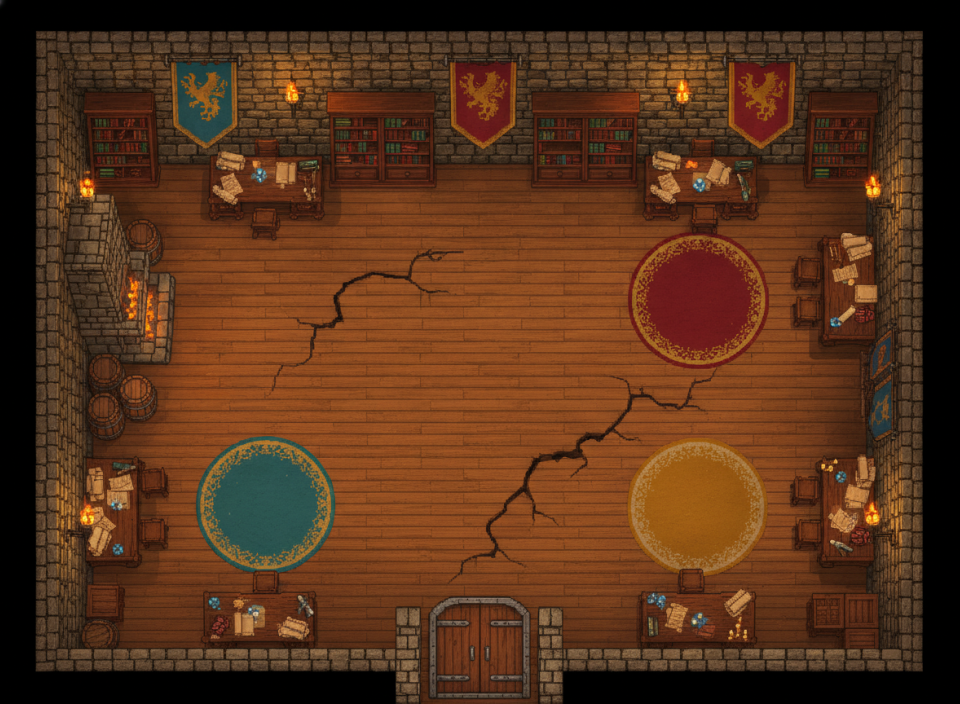
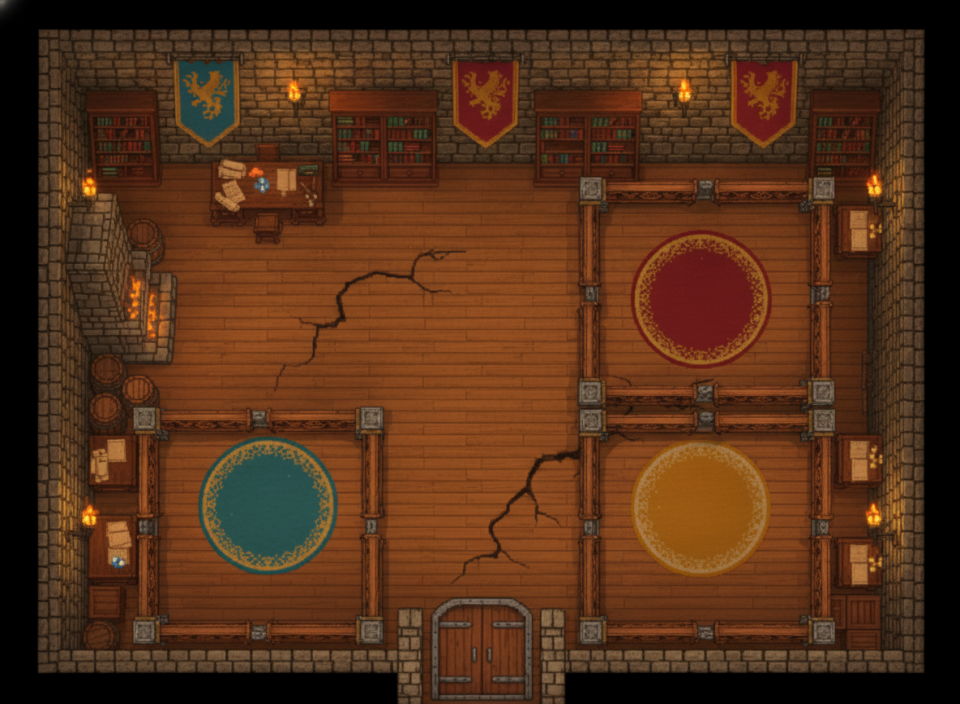
feat(visual): salas de reuniao PINTADAS (nano banana) no lugar das sebes de codigo
- Escritorio repintado (Gemini gemini-2.5-flash-image, image-to-image sobre a arte atual):
  as 3 salas de reuniao agora tem paredes de madeira entalhada com pilares de pedra,
  no mesmo estilo do resto -> sumiram as sebes feias desenhadas por codigo.
- addMeetingRoom simplificado: so colisao INVISIVEL casada com as vigas pintadas + porta
  (vao de 2 tiles) voltada pro centro. Removido o tipo MeetingSide (hedge/seal).
- Colisao e MEETING_ZONES remedidas na arte nova (crops cn_blue/red/gold) e conferidas
  por overlay (colisao em cima da viga, bolha de audio no tapete).
- Custo Gemini: +$0,12 (3 candidatas), total $0,55 de $1,80.

diff --git a/client/src/scenes/OfficeScene.ts b/client/src/scenes/OfficeScene.ts
@@ -43,15 +43,11 @@ const VOICE_STALE_MS = 1500; // sem update de posicao ha mais que isso: nao conf
 // A posicao rastreada e o CENTRO do sprite, que fica ~0.6 tile ACIMA dos pes; por
 // isso a zona sobe ate a parede de cima (OY) e encosta nas laterais — assim quem
 // fica colado em qualquer parede continua dentro da bolha, e nada vaza pro lado de fora.
-// Lado de uma sala de reunião: "hedge" = sebe visível que colide; "seal" = colisão invisível
-// (onde já há um móvel pintado que faz de parede, evitando sobrepor sebe em cima do móvel).
-type MeetingSide = "hedge" | "seal";
-
-// Zonas de reunião (bolhas de áudio isoladas) — alinhadas aos 3 TAPETES do escritório pintado.
+// Zonas de reunião (bolhas de áudio isoladas) — interior de cada sala PINTADA do escritório.
 const MEETING_ZONES = [
-  { x1: 5 * T, y1: (OY + 13) * T, x2: 12 * T, y2: (OY + 19) * T }, // sala azul (baixo-esq) — interior
-  { x1: 19 * T, y1: (OY + 7) * T, x2: 26 * T, y2: (OY + 13) * T }, // sala vermelha (cima-dir) — interior
-  { x1: 19 * T, y1: (OY + 13) * T, x2: 26 * T, y2: (OY + 19) * T }, // sala dourada (baixo-dir) — interior
+  { x1: 6 * T, y1: (OY + 14) * T, x2: 11 * T, y2: (OY + 19) * T }, // sala azul (baixo-esq) — interior
+  { x1: 19 * T, y1: (OY + 7) * T, x2: 25 * T, y2: (OY + 12) * T }, // sala vermelha (cima-dir) — interior
+  { x1: 19 * T, y1: (OY + 14) * T, x2: 25 * T, y2: (OY + 19) * T }, // sala dourada (baixo-dir) — interior
 ];
 function zoneAt(x: number, y: number): number {
   for (let i = 0; i < MEETING_ZONES.length; i++) {
@@ -374,21 +370,15 @@ export class OfficeScene extends Phaser.Scene {
         this.add.image(0, OY * T, "painted_office").setOrigin(0, 0).setDepth(0);
         this.addStaircase(16, OY + 5, true, "▲ Praia", 16, 13); // sobe pra praia (dentro da sala, longe da parede)
         this.addStaircase(16, OY + 17, false, "▼ Cripta", 16, 42); // desce pra cripta
-        // 3 salas de reunião: hedge VISÍVEL (+colisão) nos 2 lados abertos, colisão INVISÍVEL
-        // nos 2 lados com móveis (o móvel pintado faz de parede) — cerca sem sobrepor nada.
-        // Porta (vão de 2 tiles) voltada pro centro. Interior = bolha de áudio (MEETING_ZONES).
-        this.addMeetingRoom(walls, 4, OY + 12, 12, OY + 19,
-          { top: "hedge", right: "hedge", bottom: "seal", left: "seal" },
-          { side: "right", at: OY + 15 }); // azul (baixo-esq): abre pra cima+direita
-        this.addMeetingRoom(walls, 18, OY + 6, 26, OY + 13,
-          { top: "seal", right: "seal", bottom: "hedge", left: "hedge" },
-          { side: "left", at: OY + 9 }); // vermelha (cima-dir): abre pra baixo+esquerda
-        this.addMeetingRoom(walls, 18, OY + 12, 26, OY + 19,
-          { top: "hedge", right: "seal", bottom: "seal", left: "hedge" },
-          { side: "left", at: OY + 15 }); // dourada (baixo-dir): abre pra cima+esquerda
-        this.addRoomLabel("🗣 Reunião", 8 * T, (OY + 15.5) * T);
-        this.addRoomLabel("🗣 Reunião", 22 * T, (OY + 9.5) * T);
-        this.addRoomLabel("🗣 Reunião", 22 * T, (OY + 15.5) * T);
+        // 3 salas de reunião: a PAREDE é pintada no fundo (nano banana); aqui só a colisão
+        // invisível casada com as vigas + a porta (vão de 2 tiles) voltada pro centro.
+        // Coords medidas na arte nova (cn_blue/red/gold). Interior = bolha de áudio.
+        this.addMeetingRoom(walls, 5, OY + 13, 11, OY + 19, "right", OY + 15); // azul (baixo-esq)
+        this.addMeetingRoom(walls, 18, OY + 6, 25, OY + 12, "left", OY + 8); // vermelha (cima-dir)
+        this.addMeetingRoom(walls, 18, OY + 13, 25, OY + 19, "left", OY + 15); // dourada (baixo-dir)
+        this.addRoomLabel("🗣 Reunião", 8 * T, (OY + 16) * T);
+        this.addRoomLabel("🗣 Reunião", 21.5 * T, (OY + 9) * T);
+        this.addRoomLabel("🗣 Reunião", 21.5 * T, (OY + 16) * T);
       } else {
         this.add.tileSprite(0, OY * T, W, OFFICE_ROWS * T, "floor").setOrigin(0).setDepth(0);
         this.add.image(4 * T + T / 2, (OY + 7) * T + T / 2, "door_open").setDepth(1);
@@ -2882,28 +2872,28 @@ export class OfficeScene extends Phaser.Scene {
     r1: number,
     c2: number,
     r2: number,
-    sides: { top: MeetingSide; right: MeetingSide; bottom: MeetingSide; left: MeetingSide },
-    door: { side: "top" | "right" | "bottom" | "left"; at: number },
+    doorSide: "top" | "right" | "bottom" | "left",
+    doorAt: number,
   ) {
+    // A parede é PINTADA no fundo do escritório (nano banana); aqui só colocamos a colisão
+    // INVISÍVEL casada com as vigas pintadas, deixando um vão de 2 tiles pra porta.
     const gap = (s: "top" | "right" | "bottom" | "left", n: number) =>
-      door.side === s && n >= door.at && n <= door.at + 1;
-    // hedge = parede visível (colide); seal = colisão invisível (o móvel pintado faz de parede)
-    const put = (c: number, r: number, visible: boolean) => {
+      doorSide === s && n >= doorAt && n <= doorAt + 1;
+    const put = (c: number, r: number) => {
       const w = walls.create(
         c * T + T / 2,
         r * T + T / 2,
-        (c + r) % 4 === 0 ? "wall2" : "wall",
+        "wall",
       ) as Phaser.Physics.Arcade.Sprite;
-      if (visible) w.setTint(0x6f8f4a).setDepth(r * T); // sebe verde + y-sort com o personagem
-      else w.setAlpha(0).setDepth(1); // invisível, só colisão
+      w.setAlpha(0).setDepth(1); // invisível, só física
     };
     for (let c = c1; c <= c2; c++) {
-      if (!gap("top", c)) put(c, r1, sides.top === "hedge");
-      if (!gap("bottom", c)) put(c, r2, sides.bottom === "hedge");
+      if (!gap("top", c)) put(c, r1);
+      if (!gap("bottom", c)) put(c, r2);
     }
     for (let r = r1 + 1; r <= r2 - 1; r++) {
-      if (!gap("left", r)) put(c1, r, sides.left === "hedge");
-      if (!gap("right", r)) put(c2, r, sides.right === "hedge");
+      if (!gap("left", r)) put(c1, r);
+      if (!gap("right", r)) put(c2, r);
     }
   }
 
